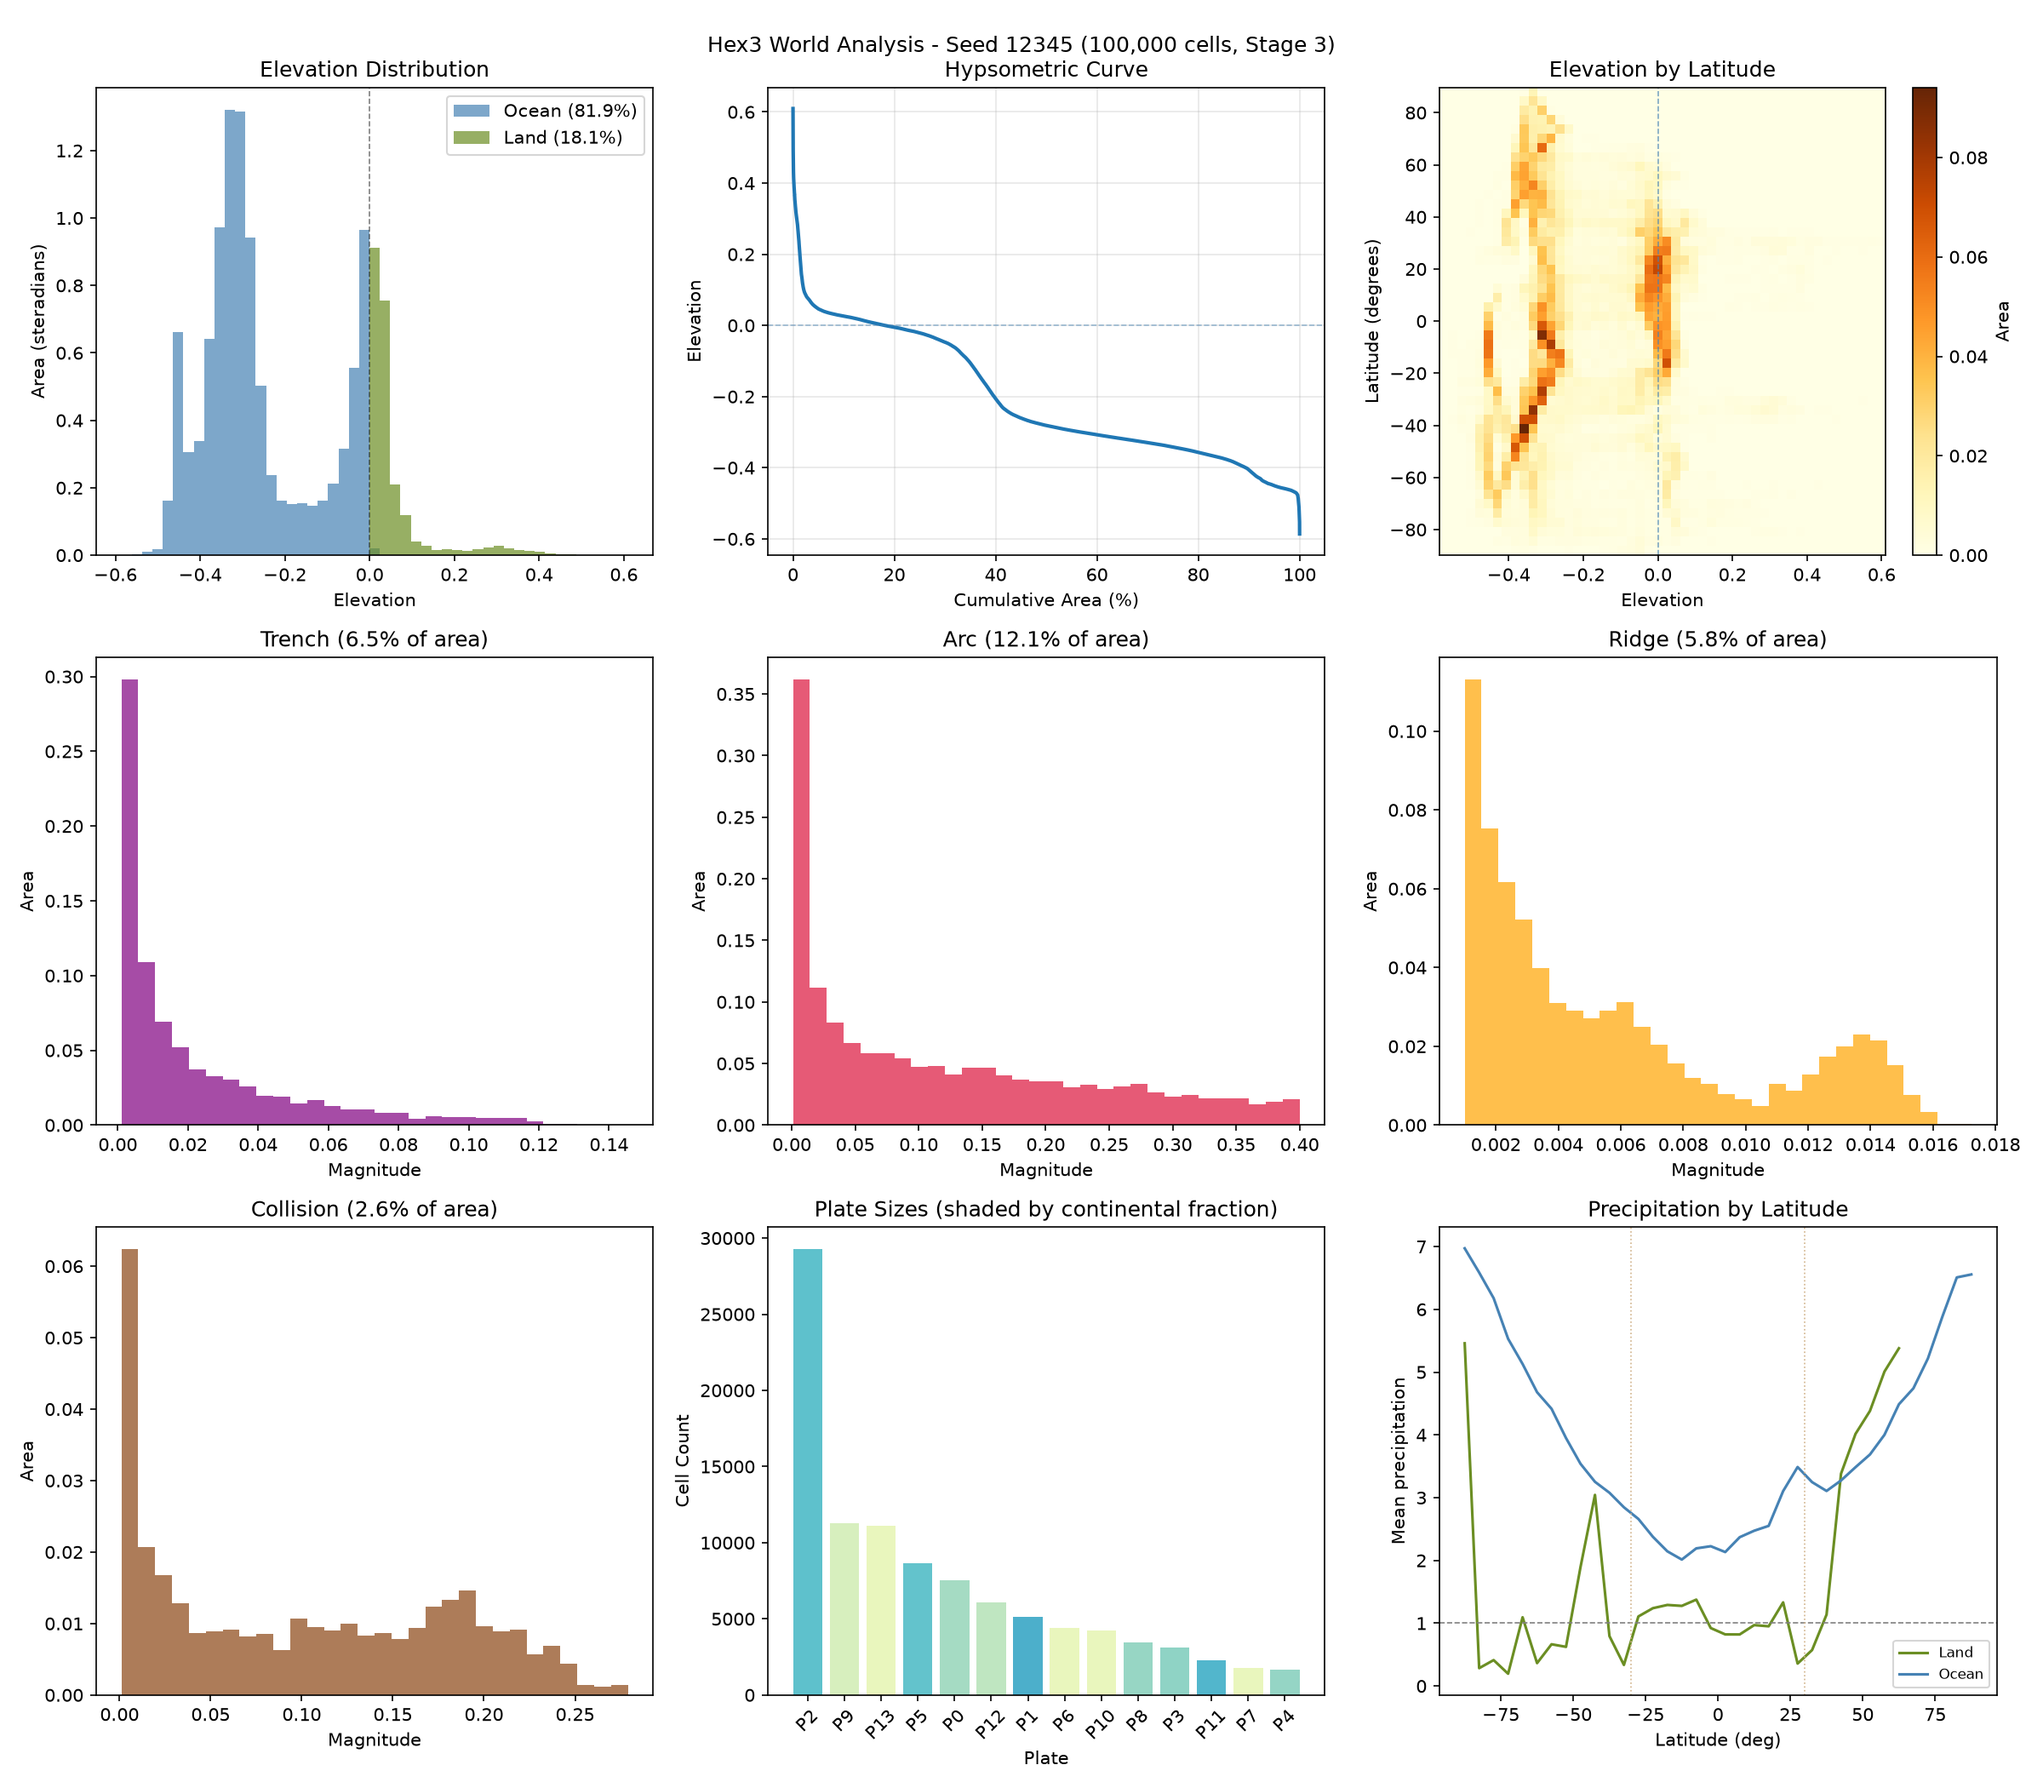
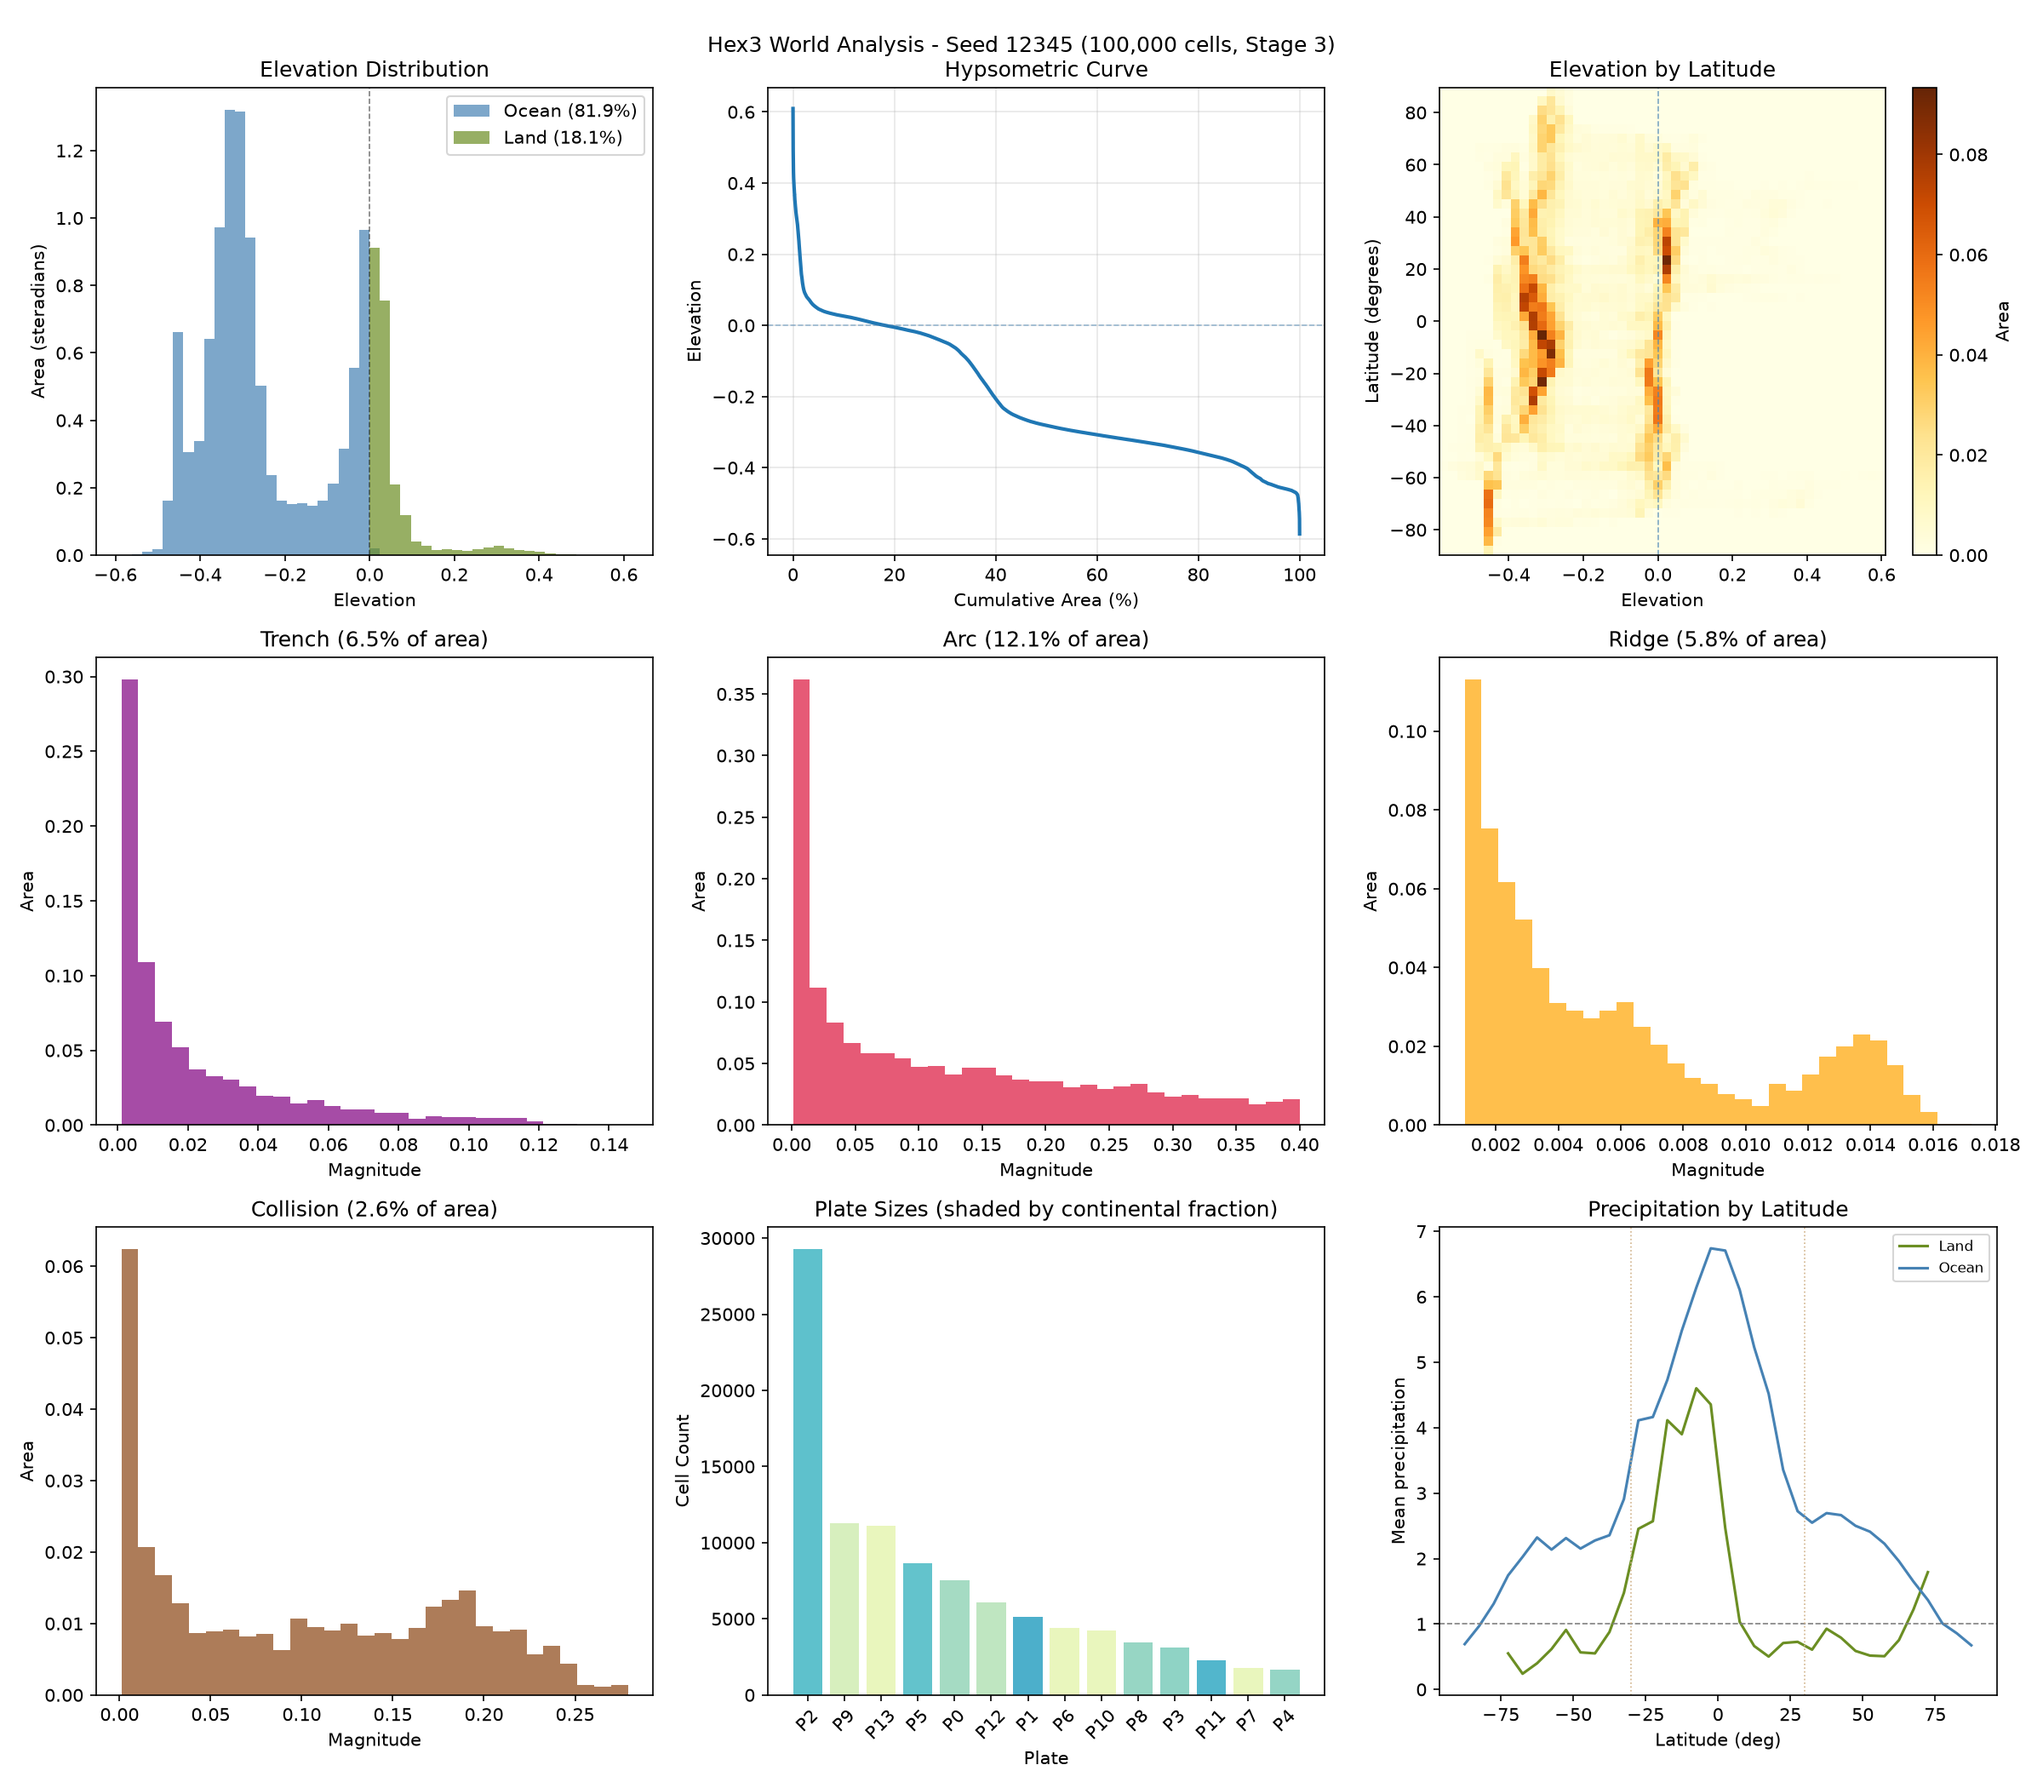
Add map renderer, fix exported latitude axis, rebalance rain terms
scripts/render_map.py renders any exported per-cell layer as an
equirectangular map (elevation, crust, plates, precipitation,
temperature, uplift, flow), giving a spatial readout without running
the app.

The export wrote latitude from the z component, but y is the pole axis
everywhere else (simulation belts, map projection). Latitude plots in
earlier analyses were distorted by this. Export now uses y and also
includes longitude for map rendering.

Looking at actual maps showed the rain field was almost purely zonal:
the ITCZ and convective terms stacked at the equator while mid-latitude
land stayed desert. Rebalanced: ITCZ_STRENGTH 1.0 -> 0.4,
RAINOUT_CONVECTIVE 0.25 -> 0.12, RAINOUT_BASE 0.012 -> 0.025,
MOISTURE_CAP_COLD 0.1 -> 0.35. Result keeps the desert belt and wet
tropics while mid/high-latitude coasts now receive rain and continental
interiors read as steppe rather than void.

Regenerated the seed-12345 moisture baseline with corrected latitude
and added the rendered map to docs.

diff --git a/scripts/render_map.py b/scripts/render_map.py
@@ -1,0 +1,144 @@
+#!/usr/bin/env python3
+"""Render exported world layers as equirectangular maps.
+
+Gives a quick visual readout of any per-cell layer without running the app:
+
+    python render_map.py world.json.gz                 # default layer grid
+    python render_map.py world.json.gz -l precipitation elevation
+    python render_map.py world.json.gz -o maps.png
+
+Layers: elevation, crust, plates, precipitation, temperature, uplift, flow,
+moisture-adjacent fields fall back to a generic colormap if unknown.
+"""
+
+import argparse
+import gzip
+import json
+from pathlib import Path
+
+import matplotlib.pyplot as plt
+import numpy as np
+from matplotlib.colors import LinearSegmentedColormap, LogNorm
+
+
+def load_world(path: Path) -> dict:
+    opener = gzip.open if path.suffix == ".gz" else open
+    with opener(path, "rt") as f:
+        return json.load(f)
+
+
+# Terrain-like colormap: deep ocean -> shelf -> lowland green -> mountain -> snow
+TERRAIN_CMAP = LinearSegmentedColormap.from_list(
+    "hex3_terrain",
+    [
+        (0.00, "#01051a"),  # abyss
+        (0.42, "#0a2d52"),  # deep ocean
+        (0.55, "#1d6f94"),  # shelf
+        (0.58, "#2e7d32"),  # coast green
+        (0.66, "#7a9e44"),  # plains
+        (0.76, "#9c7a3c"),  # uplands
+        (0.88, "#6e6258"),  # mountains
+        (1.00, "#f5f7fa"),  # snow
+    ],
+)
+
+PRECIP_CMAP = LinearSegmentedColormap.from_list(
+    "hex3_precip",
+    ["#c2a36b", "#8c9a4e", "#2e7d44", "#1c6e63", "#1a4e7a"],
+)
+
+
+def layer_values(data: dict, layer: str):
+    """Return (values, plot kwargs) for a named layer."""
+    cells = data["cells"]
+    atmosphere = cells.get("atmosphere") or {}
+    hydrology = cells.get("hydrology") or {}
+
+    if layer == "elevation":
+        v = np.array(cells["elevation"])
+        lim = max(abs(v.min()), abs(v.max()))
+        return v, dict(cmap=TERRAIN_CMAP, vmin=-lim, vmax=lim)
+    if layer == "crust":
+        return np.array(cells["crust_type"]), dict(cmap="cividis_r", vmin=0, vmax=1)
+    if layer == "plates":
+        return np.array(cells["plate_id"]), dict(cmap="tab20")
+    if layer == "precipitation":
+        v = np.array(atmosphere.get("precipitation"))
+        return v, dict(cmap=PRECIP_CMAP, vmin=0, vmax=2.5)
+    if layer == "temperature":
+        return np.array(atmosphere.get("temperature")), dict(cmap="coolwarm")
+    if layer == "uplift":
+        return np.array(atmosphere.get("uplift")), dict(cmap="YlOrRd", vmin=0, vmax=1)
+    if layer == "flow":
+        v = np.array(hydrology.get("flow_accumulation", cells.get("elevation")))
+        return v, dict(cmap="Blues", norm=LogNorm(vmin=max(v[v > 0].min(), 1e-3), vmax=v.max()))
+    # Fallback: look it up in features / noise / atmosphere by name
+    for group in (cells.get("features") or {}, cells.get("noise") or {}, atmosphere, hydrology):
+        if layer in group:
+            return np.array(group[layer]), dict(cmap="viridis")
+    raise KeyError(f"unknown layer: {layer}")
+
+
+def render(data: dict, layers: list[str], output: Path, dpi: int):
+    cells = data["cells"]
+    lat = np.degrees(np.array(cells["latitude"]))
+    lon = np.degrees(np.array(cells["longitude"]))
+    elevation = np.array(cells["elevation"])
+
+    n = len(layers)
+    ncols = 1 if n == 1 else 2
+    nrows = (n + ncols - 1) // ncols
+    panel_w = 16 if n == 1 else 8
+    panel_h = 8.4 if n == 1 else 4.2
+    fig, axes = plt.subplots(
+        nrows, ncols, figsize=(panel_w * ncols, panel_h * nrows), squeeze=False
+    )
+
+    # Marker size tuned so ~100k points tile an 8x4 panel without gaps.
+    size = max(0.3, 140000 / len(lat)) * (4.0 if n == 1 else 1.0)
+
+    for ax, layer in zip(axes.flat, layers):
+        v, kwargs = layer_values(data, layer)
+        sc = ax.scatter(lon, lat, c=v, s=size, linewidths=0, **kwargs)
+        # Coastline overlay for non-elevation layers: outline land cells faintly.
+        if layer not in ("elevation", "crust"):
+            coast = elevation >= 0
+            ax.scatter(
+                lon[coast], lat[coast], s=size * 0.25, c="black", alpha=0.12, linewidths=0
+            )
+        ax.set_xlim(-180, 180)
+        ax.set_ylim(-90, 90)
+        ax.set_title(layer)
+        ax.set_xticks([-180, -90, 0, 90, 180])
+        ax.set_yticks([-60, -30, 0, 30, 60])
+        ax.grid(alpha=0.2, linewidth=0.5)
+        fig.colorbar(sc, ax=ax, shrink=0.8)
+
+    for ax in axes.flat[n:]:
+        ax.axis("off")
+
+    meta = data["metadata"]
+    fig.suptitle(f"Seed {meta['seed']} - {meta['num_cells']:,} cells, stage {meta['stage']}")
+    plt.tight_layout()
+    fig.savefig(output, dpi=dpi)
+    print(f"Saved: {output}")
+
+
+def main():
+    parser = argparse.ArgumentParser(description=__doc__)
+    parser.add_argument("world", type=Path)
+    parser.add_argument(
+        "-l", "--layers", nargs="+",
+        default=["elevation", "precipitation", "crust", "temperature"],
+    )
+    parser.add_argument("-o", "--output", type=Path, default=None)
+    parser.add_argument("--dpi", type=int, default=110)
+    args = parser.parse_args()
+
+    data = load_world(args.world)
+    output = args.output or Path(f"map_{data['metadata']['seed']}.png")
+    render(data, args.layers, output, args.dpi)
+
+
+if __name__ == "__main__":
+    main()

diff --git a/src/world/constants.rs b/src/world/constants.rs
@@ -451,14 +451,14 @@ pub const MOISTURE_AVG_WINDOW: usize = 20;
 pub const EVAPORATION_RATE: f32 = 0.5;
 
 /// Moisture carrying capacity of cold air (temperature 0).
-pub const MOISTURE_CAP_COLD: f32 = 0.1;
+pub const MOISTURE_CAP_COLD: f32 = 0.35;
 
 /// Moisture carrying capacity of warm air (temperature 1).
 pub const MOISTURE_CAP_WARM: f32 = 1.0;
 
 /// Baseline fraction of airborne moisture raining out per iteration.
 /// Controls how far moisture travels inland before drying out.
-pub const RAINOUT_BASE: f32 = 0.012;
+pub const RAINOUT_BASE: f32 = 0.025;
 
 /// Additional rainout per unit of uplift (orographic + convergence rain).
 pub const RAINOUT_OROGRAPHIC: f32 = 0.15;
@@ -466,7 +466,7 @@ pub const RAINOUT_OROGRAPHIC: f32 = 0.15;
 /// Convective rainout coefficient: warm, humid air rains on its own.
 /// Applied as RAINOUT_CONVECTIVE * humidity^2 * temperature, so tropical
 /// moist air rains (rainforests) while cold or dry air does not.
-pub const RAINOUT_CONVECTIVE: f32 = 0.25;
+pub const RAINOUT_CONVECTIVE: f32 = 0.12;
 
 /// Fraction of land precipitation re-evaporated into the air column
 /// (evapotranspiration recycling; lets rain propagate into deep interiors).
@@ -492,7 +492,7 @@ pub const DESERT_BELT_WIDTH: f32 = 0.12;
 pub const DESERT_BELT_STRENGTH: f32 = 0.7;
 
 /// Rain enhancement at the equator (ITCZ convergence band). 0 = off.
-pub const ITCZ_STRENGTH: f32 = 1.0;
+pub const ITCZ_STRENGTH: f32 = 0.4;
 
 /// Width (sigma) of the ITCZ band in sin(latitude) units.
 pub const ITCZ_WIDTH: f32 = 0.15;

diff --git a/src/app/export.rs b/src/app/export.rs
@@ -58,6 +58,7 @@ struct CellData {
     crust_type: Vec<u8>, // 0 = continental, 1 = oceanic (per-cell, independent of plates)
     area: Vec<f32>,
     latitude: Vec<f32>,
+    longitude: Vec<f32>,
 
     features: FeatureData,
     noise: NoiseData,
@@ -136,6 +137,7 @@ impl WorldExport {
         let mut plate_id = Vec::with_capacity(num_cells);
         let mut crust_type = Vec::with_capacity(num_cells);
         let mut latitude = Vec::with_capacity(num_cells);
+        let mut longitude = Vec::with_capacity(num_cells);
 
         for i in 0..num_cells {
             elevation_vec.push(elevation.values[i]);
@@ -147,9 +149,10 @@ impl WorldExport {
                 1
             });
 
-            // Latitude from cell center (z coordinate on unit sphere)
+            // y is the pole axis (matches the simulation and map projection)
             let center = world.tessellation.cell_center(i);
-            latitude.push(center.z.asin());
+            latitude.push(center.y.asin());
+            longitude.push(center.z.atan2(center.x));
         }
 
         // Features
@@ -258,6 +261,7 @@ impl WorldExport {
                 crust_type,
                 area: cell_areas,
                 latitude,
+                longitude,
                 features: features_data,
                 noise,
                 atmosphere: atmosphere_data,
